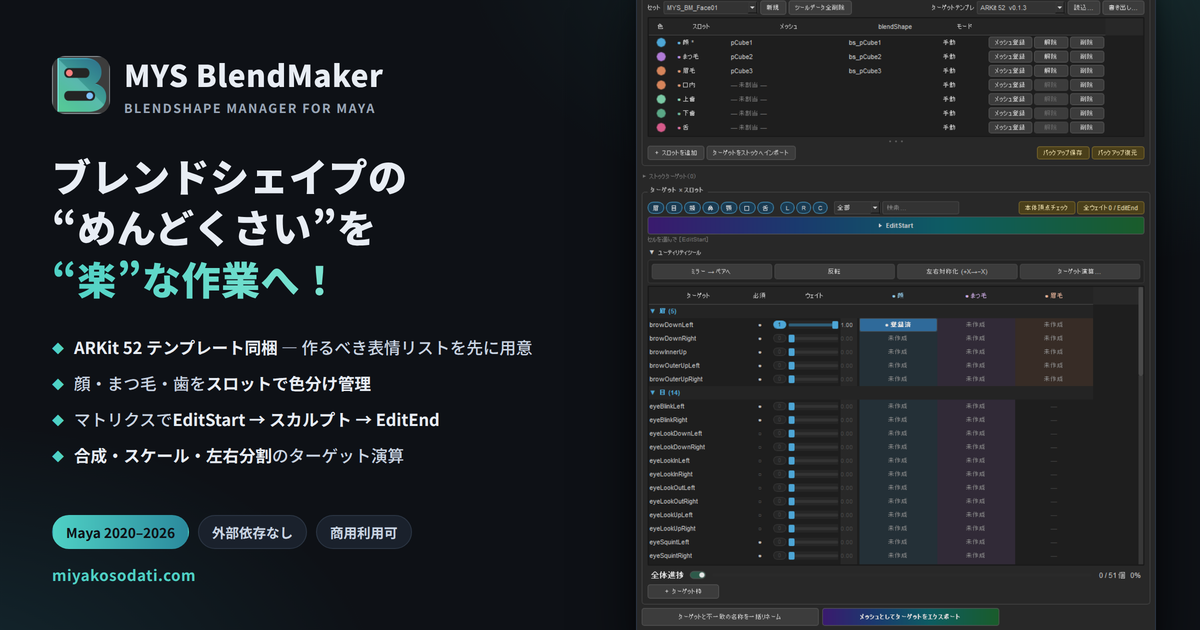
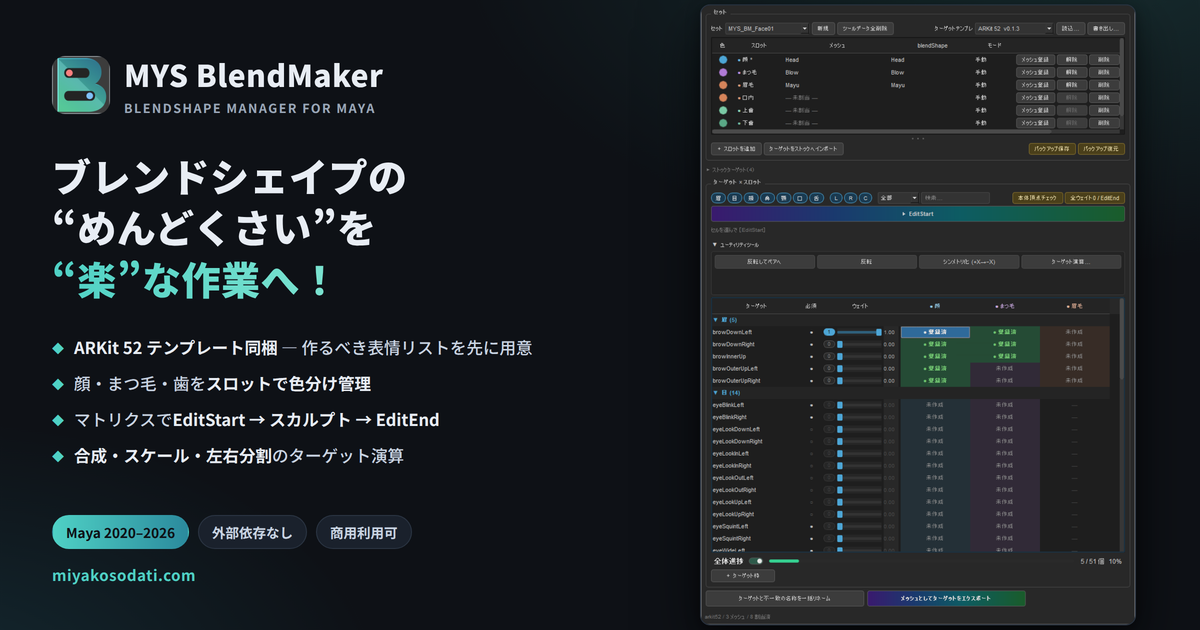
BlendMaker v1.0.5: progress fix, dash-cell fix, Flip/Symmetrize terminology

Changed region(s): [[0.5242, 0.0, 0.9867, 1.0]]

diff --git a/tools/blendmaker/index.html b/tools/blendmaker/index.html
@@ -27,7 +27,7 @@
 
   <div class="tool-head">
     <div class="crumb"><a href="/">MYS Tools</a> / BlendMaker</div>
-    <h1>MYS BlendMaker <span style="font-size:16px;color:var(--tx3)">v1.0.1</span></h1>
+    <h1>MYS BlendMaker <span style="font-size:16px;color:var(--tx3)">v1.0.5</span></h1>
     <div class="tag">フェイシャルを中心としたブレンドシェイプ制作を、テンプレート × マトリクスで1ウィンドウ管理</div>
     <div class="badges">
       <span class="bd dcc">Maya 2020–2026</span>
@@ -36,7 +36,7 @@
       <span class="bd">無償・商用利用可</span>
     </div>
     <div class="dl-row">
-      <a class="dl-btn" href="https://github.com/miyakosodati/miyakosodati.github.io/releases/download/blendmaker-v1.0.1/MYS_BlendMaker_v1.0.1.zip">ダウンロード（v1.0.1）</a>
+      <a class="dl-btn" href="https://github.com/miyakosodati/miyakosodati.github.io/releases/download/blendmaker-v1.0.5/MYS_BlendMaker_v1.0.5.zip">ダウンロード（v1.0.5）</a>
       <div class="dl-note">ダウンロード・使用により<a href="/eula/">使用許諾契約（EULA）</a>に同意したものとみなされます。社外への再配布はできません。</div>
     </div>
   </div>
@@ -49,7 +49,7 @@
     <li>顔・まつ毛・眉毛・歯など、<strong>連動するメッシュを「スロット」として色分け管理</strong>。同じ表情のターゲットをスロット横断でまとめて扱えます。</li>
     <li><strong>ターゲット × スロットのマトリクス</strong>でセルを選んで<strong>［EditStart］→ スカルプト →［EditEnd］</strong>。空ターゲットの作成からスカルプト編集モードの出入りまでボタン1つで、いま何個できていて残り何個かは<strong>進捗バー</strong>が教えてくれます。</li>
     <li>既にターゲットを持つメッシュも大丈夫。<strong>「ストックへインポート」で既存ターゲットや表情メッシュを取り込み</strong>、名称が一致するものはまとめて差し込めます。</li>
-    <li><strong>ターゲット演算（合成・スケール・左右分割）</strong>をプレビュー付きで搭載。ミラー・反転・左右対称化、ターゲットのメッシュ書き出し、<strong>バックアップ保存 / 復元</strong>まで1ウィンドウで完結します。</li>
+    <li><strong>ターゲット演算（合成・スケール・左右分割）</strong>をプレビュー付きで搭載。反転（左右を入れ替え）・シンメトリ化（片側を基準に対称化）、ターゲットのメッシュ書き出し、<strong>バックアップ保存 / 復元</strong>まで1ウィンドウで完結します。</li>
   </ul>
 
   <img class="figure" src="/assets/img/blendmaker/uimap.png" alt="MYS BlendMaker UI機能マップ — 各セクションの役割">
@@ -75,6 +75,7 @@
 
   <h2 class="sec">更新履歴</h2>
   <table class="spec">
+    <tr><th>v1.0.5（2026-09-15）</th><td>複数スロット登録時に進捗バーが0%のまま動かない問題と、取り込みで割り当てたターゲットのセルが「—」表示のままになる問題を修正。用語を「反転（左右を入れ替え）/シンメトリ化（片側を基準に対称化）」に統一し、頂点編集の文言を「原型に戻す」「平均化」に変更</td></tr>
     <tr><th>v1.0.1（2026-09-14）</th><td>原点から離れた位置のメッシュ（ワールド基準のblendShape）で新規ターゲットがズレて作られる問題を修正。移動値がターゲットに混ざった場合の「位置オフセット補正」（自動検出付き）を追加。列の一時OFFをヘッダに表示し、編集開始時に自動解除。ストック全削除を追加</td></tr>
     <tr><th>v1.0.0（2026-09-13）</th><td>一般公開開始</td></tr>
   </table>
